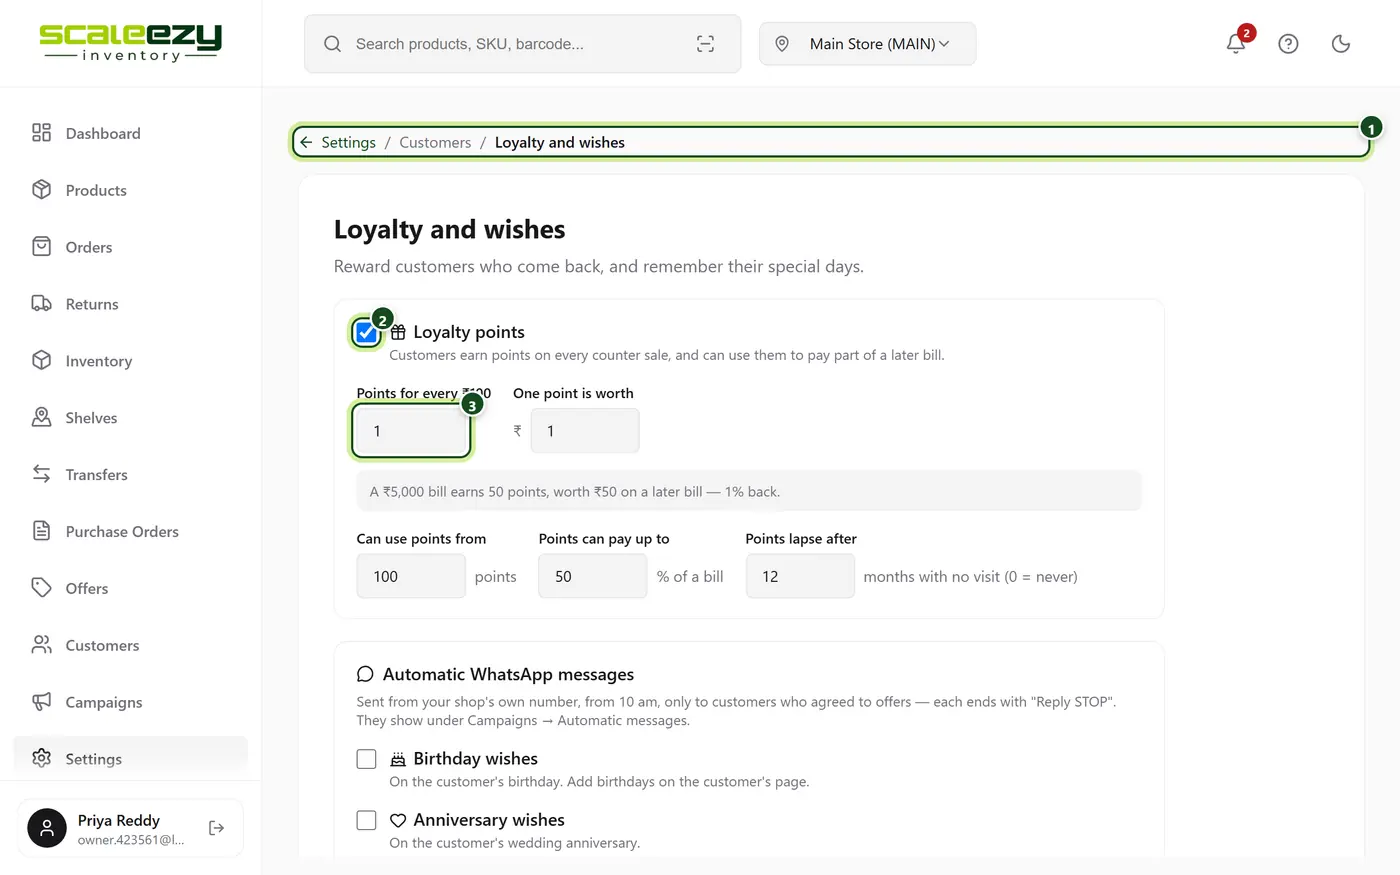
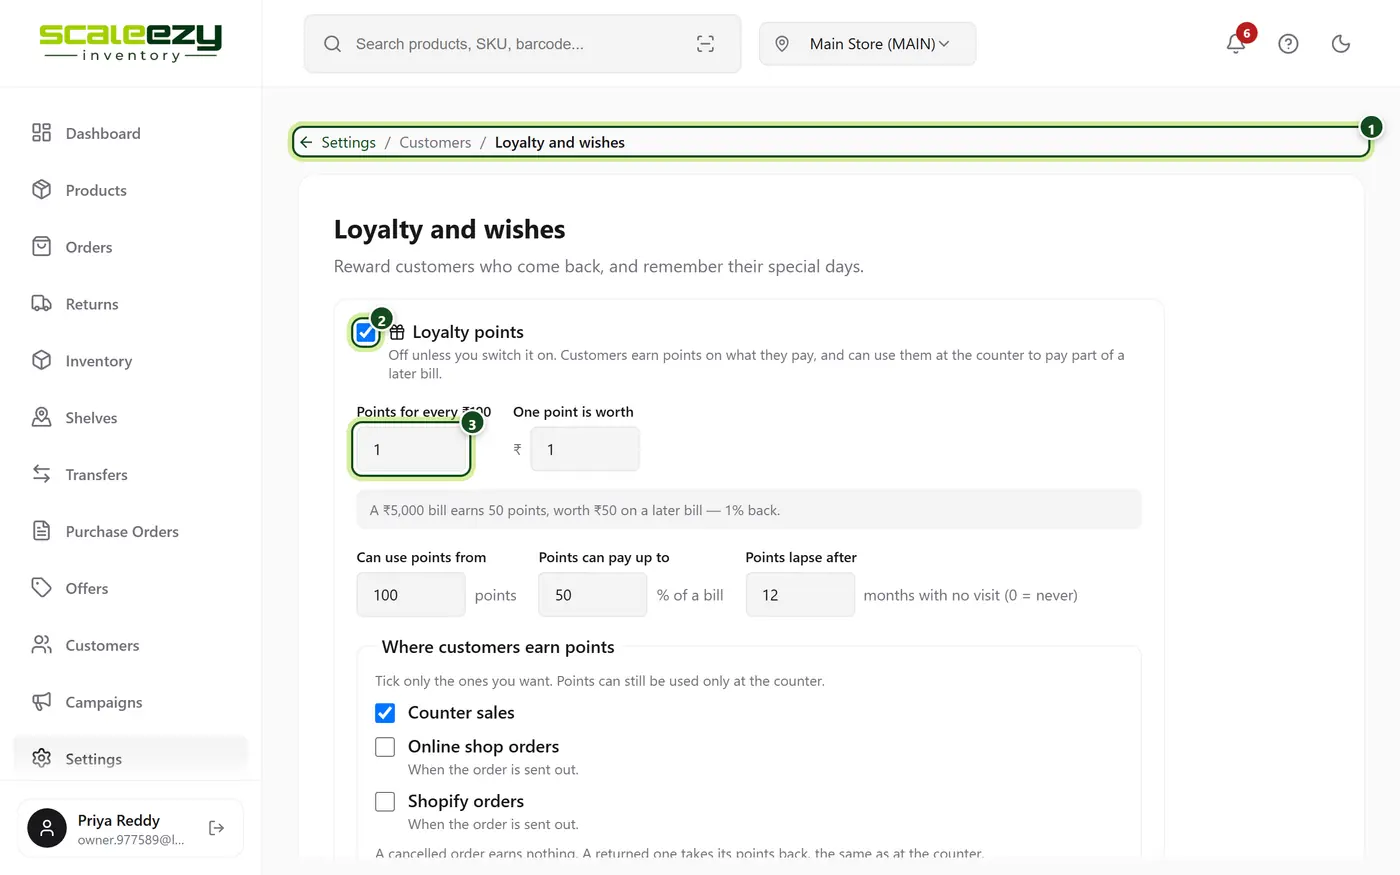
Loyalty settings: Where customers earn points (counter, online shop, Shopify); help in all languages

diff --git a/src/components/loyalty/LoyaltySettings.jsx b/src/components/loyalty/LoyaltySettings.jsx
@@ -87,6 +87,9 @@ export default function LoyaltySettings() {
         anniversaryWish: f.anniversaryWish,
         anniversaryText: f.anniversaryText,
         expiryReminder: f.expiryReminder,
+        earnAtCounter: f.earnAtCounter,
+        earnOnlineShop: f.earnOnlineShop,
+        earnShopify: f.earnShopify,
         // Sent only by those who could change them, so nobody else clears a picture by saving.
         ...(pictures ? { birthdayMediaId: f.birthdayMedia?.id ?? null, anniversaryMediaId: f.anniversaryMedia?.id ?? null } : {})
       });
@@ -106,7 +109,7 @@ export default function LoyaltySettings() {
 
       <div style={section}>
         <Toggle id="l-enabled" name="Loyalty points" checked={f.enabled} onChange={set('enabled')}
-          hint="Customers earn points on every counter sale, and can use them to pay part of a later bill.">
+          hint="Off unless you switch it on. Customers earn points on what they pay, and can use them at the counter to pay part of a later bill.">
           <Gift size={16} style={{ verticalAlign: '-3px', marginRight: '6px' }} />Loyalty points
         </Toggle>
         {f.enabled && (
@@ -121,6 +124,16 @@ export default function LoyaltySettings() {
               <Num id="l-max" label="Points can pay up to" value={f.maxRedeemPercent} onChange={set('maxRedeemPercent')} suffix="% of a bill" min={1} max={100} />
               <Num id="l-expiry" label="Points lapse after" value={f.expiryMonths} onChange={set('expiryMonths')} suffix="months with no visit (0 = never)" max={120} />
             </div>
+            <fieldset style={{ border: '1px solid var(--border-light)', borderRadius: '10px', padding: '12px 16px', margin: 0, display: 'flex', flexDirection: 'column', gap: '10px' }}>
+              <legend style={{ fontWeight: 500, padding: '0 6px' }}>Where customers earn points</legend>
+              <p style={{ margin: 0, fontSize: '13px', color: 'var(--text-secondary)' }}>Tick only the ones you want. Points can still be used only at the counter.</p>
+              <Toggle id="l-earn-counter" name="Counter sales" checked={f.earnAtCounter} onChange={set('earnAtCounter')}>Counter sales</Toggle>
+              <Toggle id="l-earn-shop" name="Online shop orders" checked={f.earnOnlineShop} onChange={set('earnOnlineShop')}
+                hint="When the order is sent out.">Online shop orders</Toggle>
+              <Toggle id="l-earn-shopify" name="Shopify orders" checked={f.earnShopify} onChange={set('earnShopify')}
+                hint="When the order is sent out.">Shopify orders</Toggle>
+              <p style={{ margin: 0, fontSize: '13px', color: 'var(--text-secondary)' }}>A cancelled order earns nothing. A returned one takes its points back, the same as at the counter.</p>
+            </fieldset>
           </div>
         )}
       </div>

diff --git a/src/help/content/customers/loyalty-points.md b/src/help/content/customers/loyalty-points.md
@@ -1,6 +1,6 @@
 ---
 title: Loyalty points
-summary: Customers earn points on every counter sale and use them to pay part of a later bill. Set the rules once; the till does the rest.
+summary: Customers earn points on what they pay, at the counter and if you choose on online orders, and use them to pay part of a later bill. Set the rules once; the till does the rest.
 for: Owners, managers and sales staff
 minutes: 4
 app: /settings?section=LOYALTY
@@ -10,7 +10,7 @@ keywords: loyalty points reward rewards points earn redeem use pay with points c
 
 Loyalty points are a thank-you to customers who come back. They earn points on what they pay, and later use those points to pay part of a bill.
 
-Points work only at the counter, in [New sale](/help/orders/new-sale).
+Points are used only at the counter, in [New sale](/help/orders/new-sale). They are earned at the counter, and on online shop and Shopify orders if you tick them.
 
 ## 1. Switch points on
 
@@ -33,6 +33,17 @@ The line under the rules shows what they give, for example *A ₹5,000 bill earn
 :::note
 Only owners, and roles with the loyalty permission, can change these rules. Everyone who takes sales can give and take points at the till.
 :::
+
+### Where customers earn points
+
+Under the rules, tick where customers earn:
+
+- [[1]] **Counter sales**: ticked unless you untick it.
+- [[2]] **Online shop orders** and [[3]] **Shopify orders**: not ticked until you tick them. The customer earns when the order is sent out, on what they paid. A cancelled order earns nothing. A returned one takes its points back.
+
+Points are always used at the counter only. Untick **Counter sales** and customers can still use their points there; they just stop earning them.
+
+![Where customers earn points. Counter sales is marked 1, Online shop orders 2 and Shopify orders 3.](1b-where-earned.webp "Click Save at the bottom after changing a tick.")
 
 ## 2. At the counter
 
